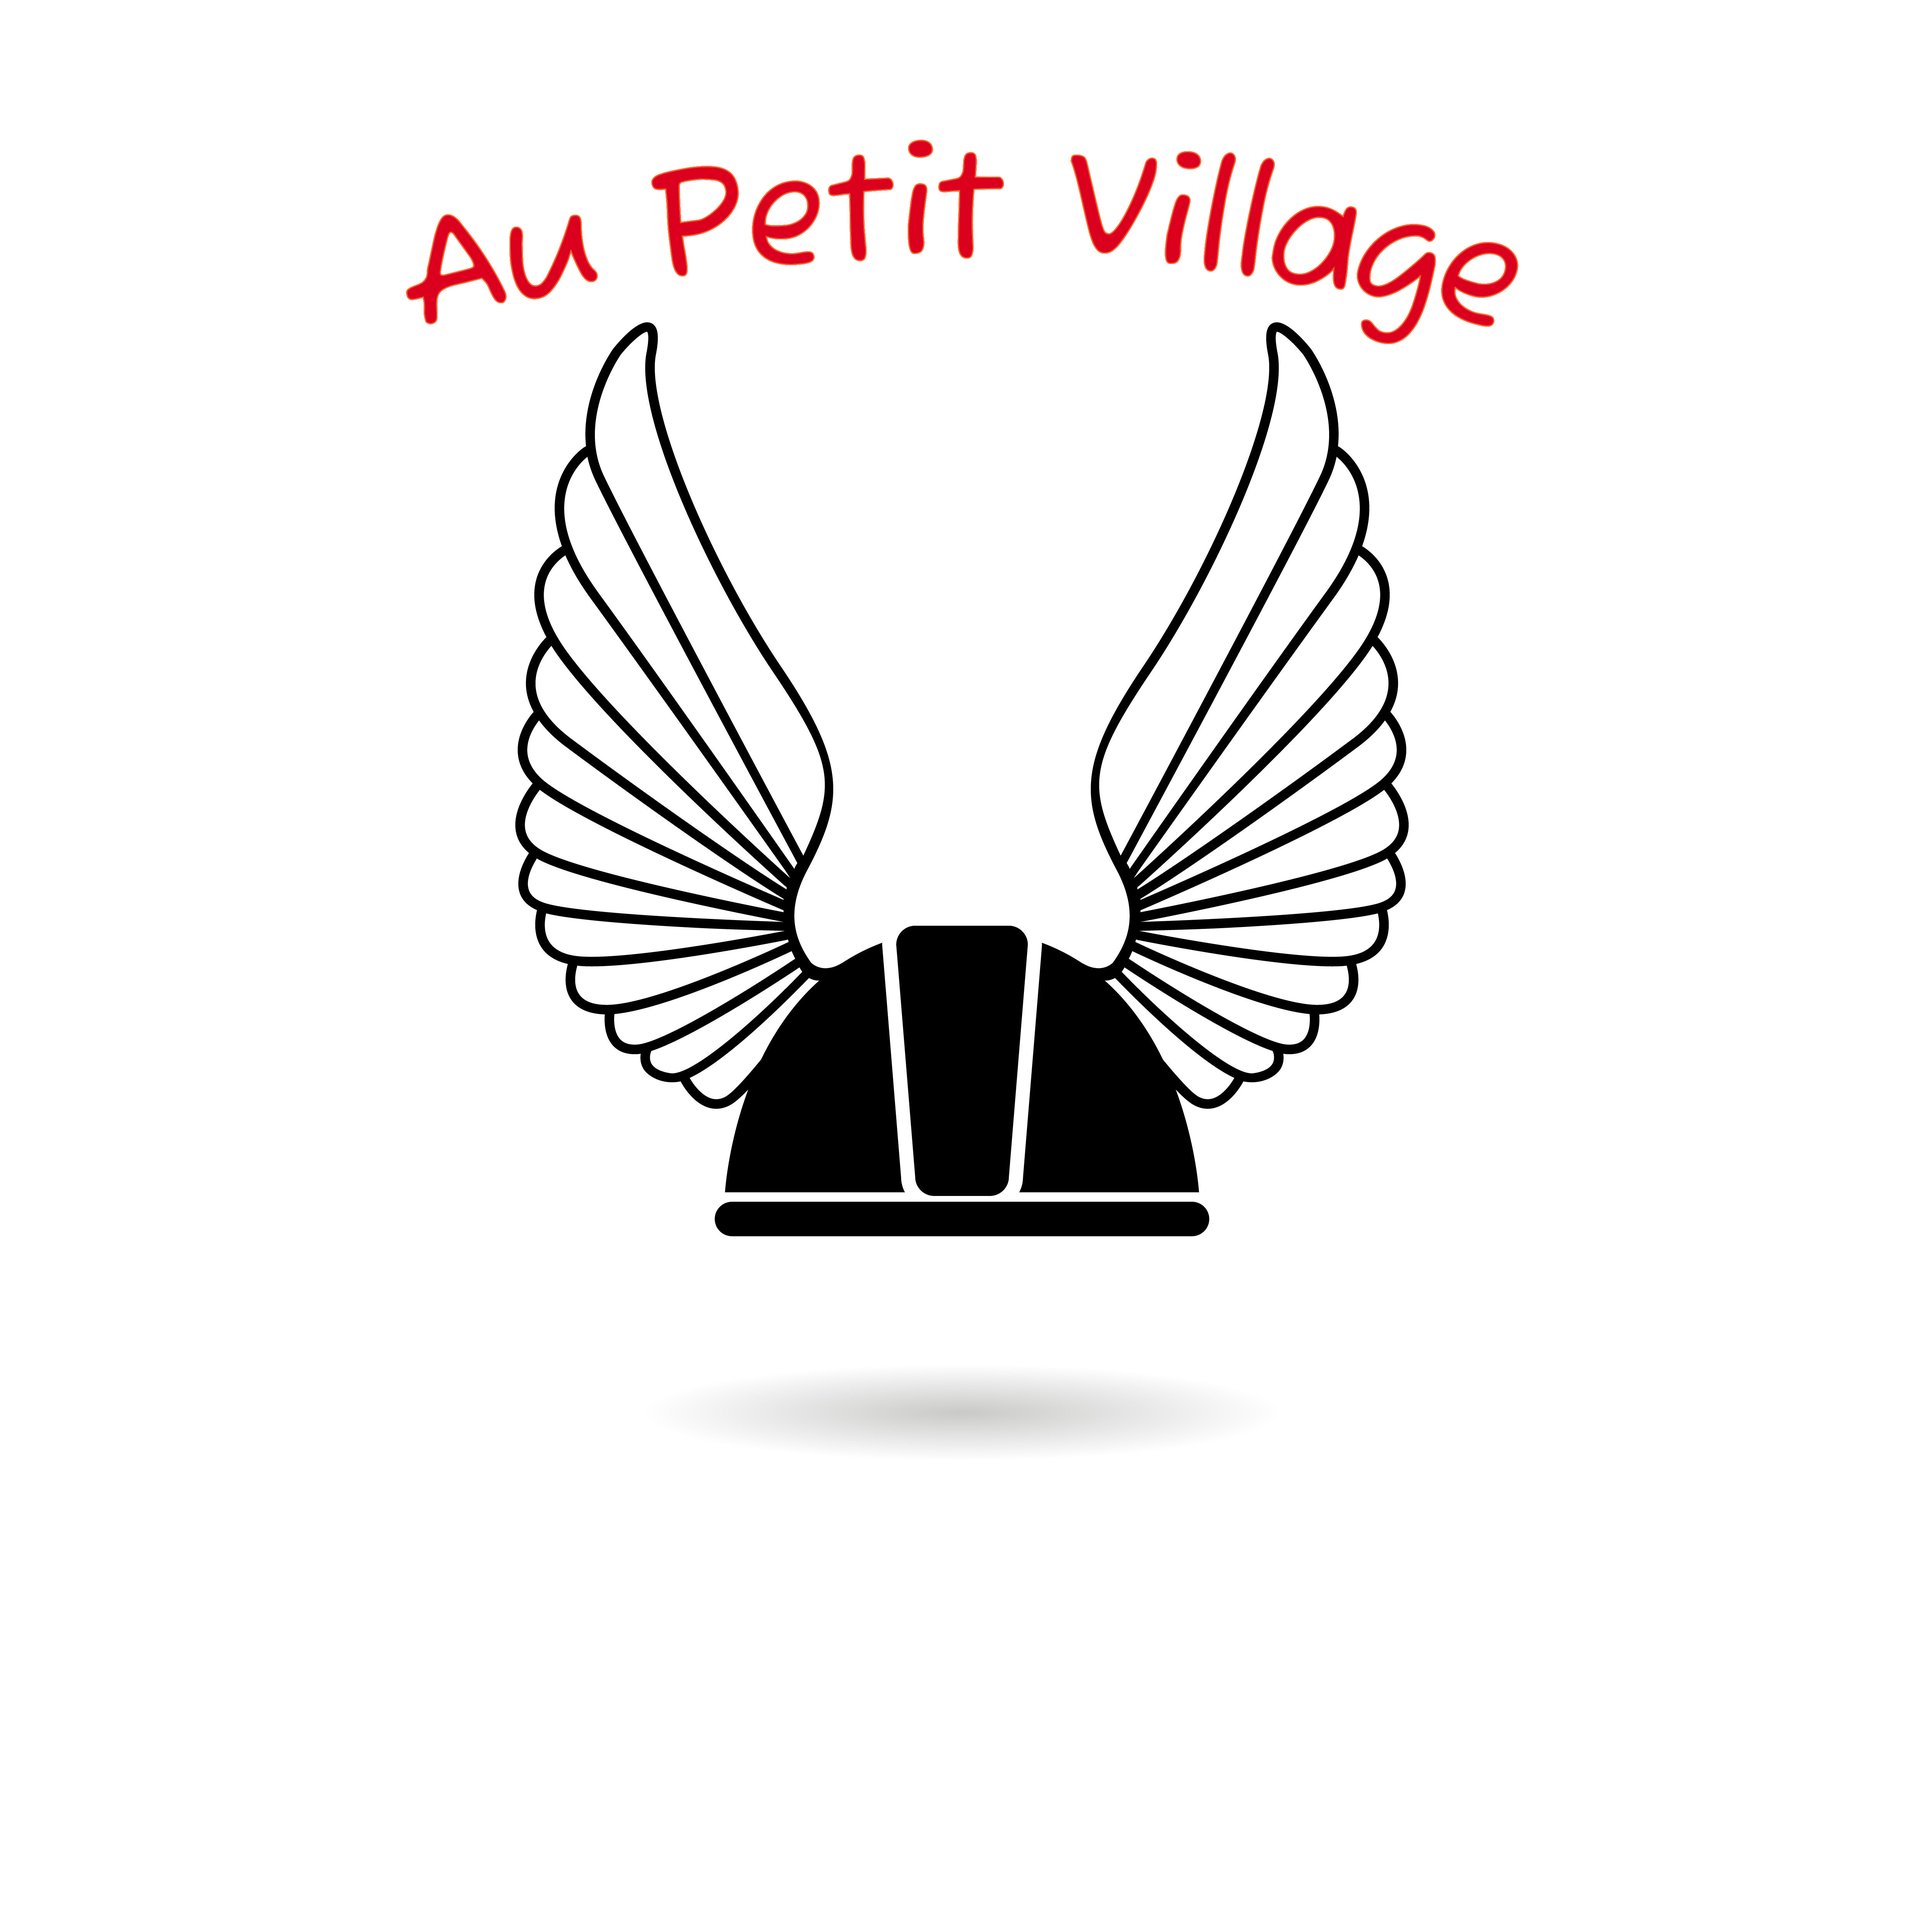
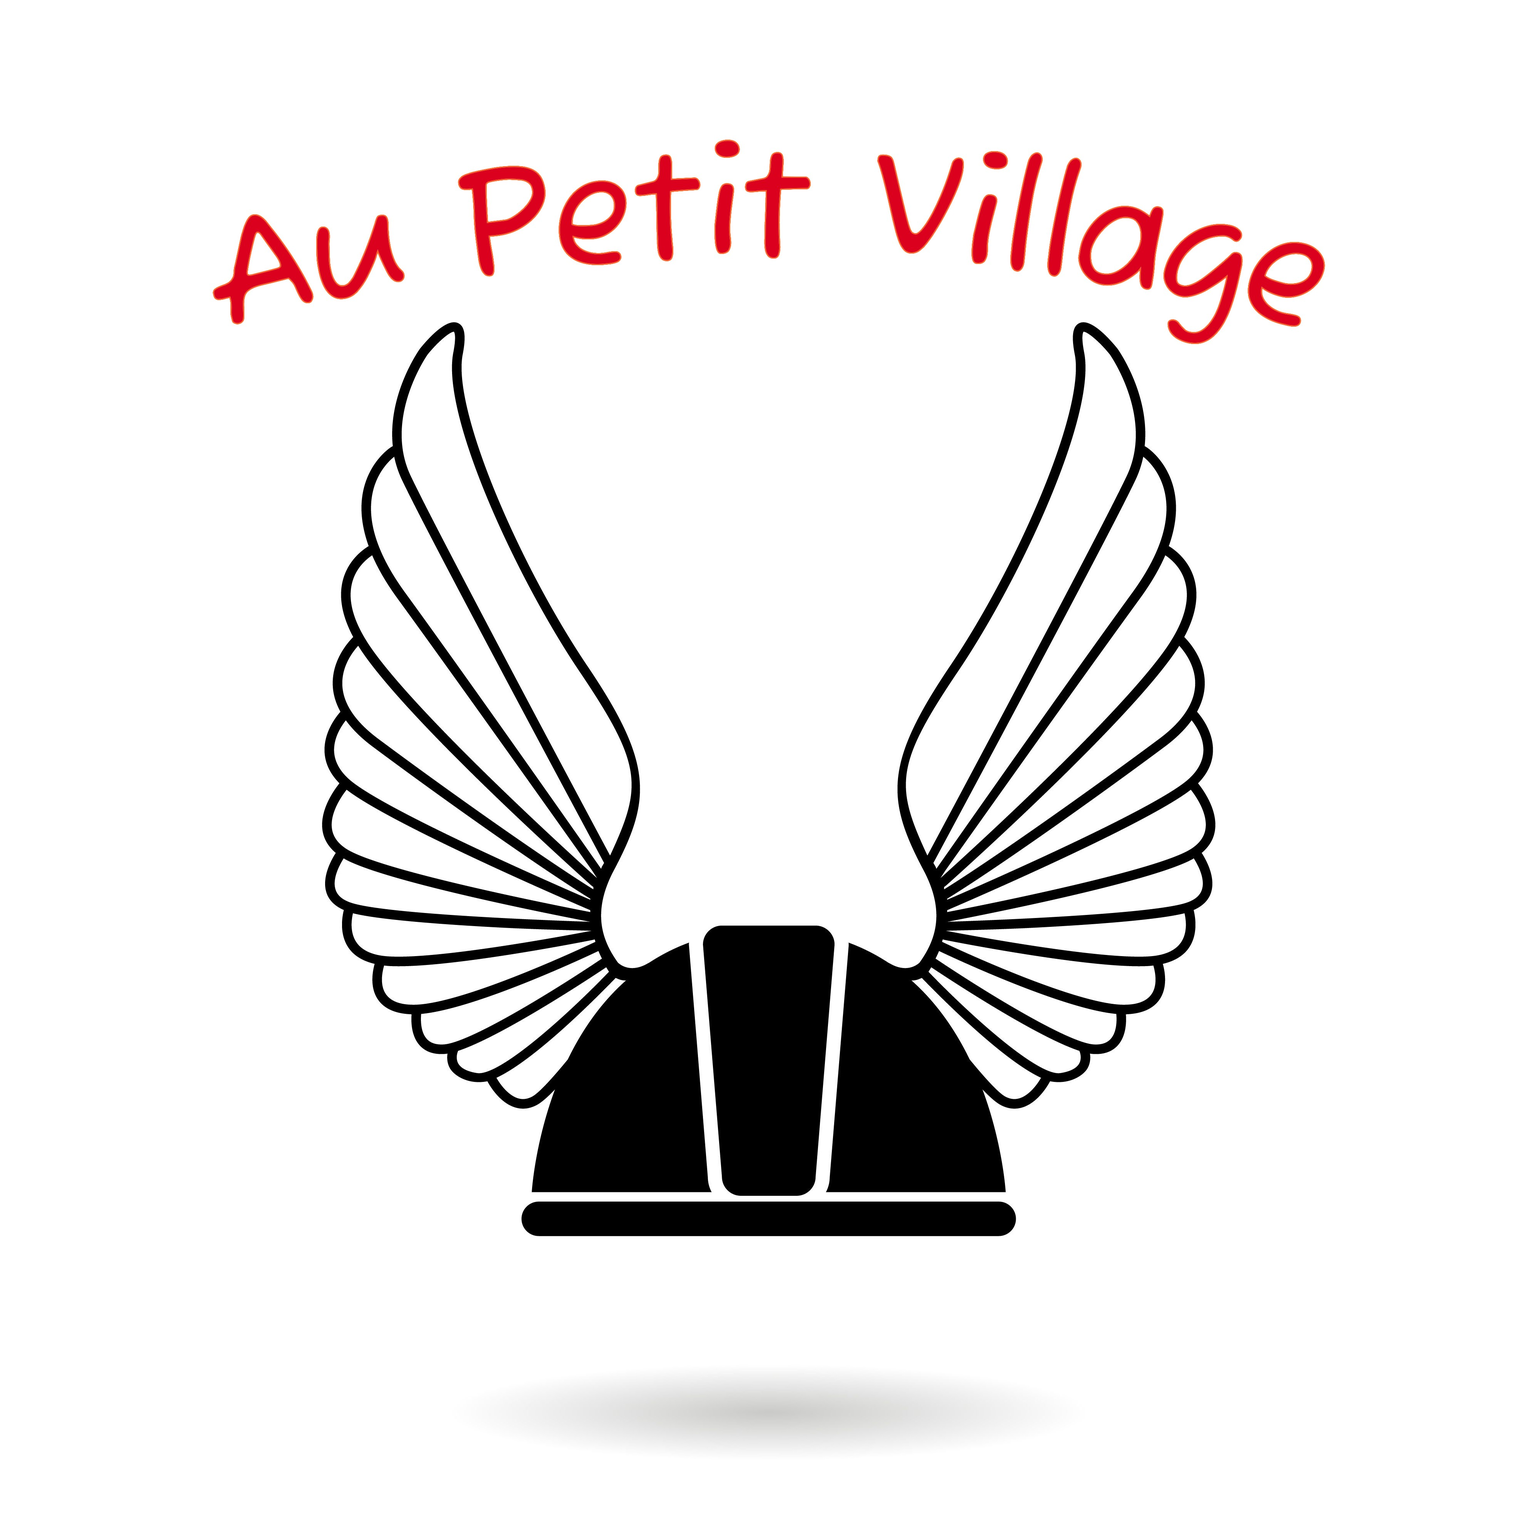
adding style

Changed region(s): [[0.125, 0.0625, 0.875, 0.8125], [0.375, 0.875, 0.625, 0.9375]]

diff --git a/src/app/header/header.component.html b/src/app/header/header.component.html
@@ -1,14 +1,16 @@
 <div>
-    <a routerLink=""><img src="/src/assets/village.jpg" alt="logo"></a>
+    <div class="text-center">
+        <a routerLink="" ><img src="assets/village.jpg" alt="logo"></a>
+    </div>
     <nav class="navbar navbar-expand-lg bg-header">
-        <div class="container-fluid bg-header">
+        <div class="container-fluid bg-header ">
             <button class="navbar-toggler" type="button" data-bs-toggle="collapse" data-bs-target="#navbarSupportedContent" aria-controls="navbarSupportedContent" aria-expanded="false" aria-label="Toggle navigation">
                 <span class="navbar-toggler-icon"></span>
             </button>
-            <div class="collapse navbar-collapse" id="navbarSupportedContent">
-                <ul class="navbar-nav">
+            <div class="collapse navbar-collapse d-flex justify-content-center" id="navbarSupportedContent">
+                <ul class="navbar-nav gap-5 fs-5 fw-bold text-decoration-none">
                     <li class="nav-item">
-                        <a routerLink="/about">A propos</a>
+                        <a class="headerLink" routerLink="/about">A propos</a>
                     </li>
                     <li class="nav-item">
                         <a routerLink="/contact">Contact</a>

diff --git a/src/styles.scss b/src/styles.scss
@@ -5,7 +5,7 @@
 }
 
 @font-face {
-    font-family: Comforta;
+    font-family: Comfortaa;
     src: url('./assets/fonts/Comfortaa-VariableFont_wght.ttf');
 }
 
@@ -24,3 +24,18 @@ $custom-colors: (
 $theme-colors: map-merge($theme-colors, $custom-colors);
 
 @import '../node_modules/bootstrap/scss/bootstrap.scss';
+
+// apply fonts
+h1 {
+    font-family: BubbleBoddy;
+}
+
+a {
+    font-family: Comfortaa;
+    text-decoration: none;
+    color: black;
+}
+
+p {
+    font-family: Comfortaa;
+}

diff --git a/src/app/header/header.component.scss b/src/app/header/header.component.scss
@@ -1,3 +1,11 @@
 img {
-    height: 100px;
+    margin-left: auto;
+    margin-right: auto;
+    width: 200px;
+    height: auto;
+};
+
+.nav-item:hover {
+    text-decoration: underline;
+    color: #da001e;
 }

diff --git a/src/index.html b/src/index.html
@@ -1,5 +1,5 @@
 <!doctype html>
-<html lang="en">
+<html lang="fr">
 <head>
   <meta charset="utf-8">
   <title>Au Petit Village</title>

diff --git a/src/app/app.component.html b/src/app/app.component.html
@@ -1,2 +1,3 @@
 <app-header />
 <router-outlet />
+<p>vbnmfkfg</p>
